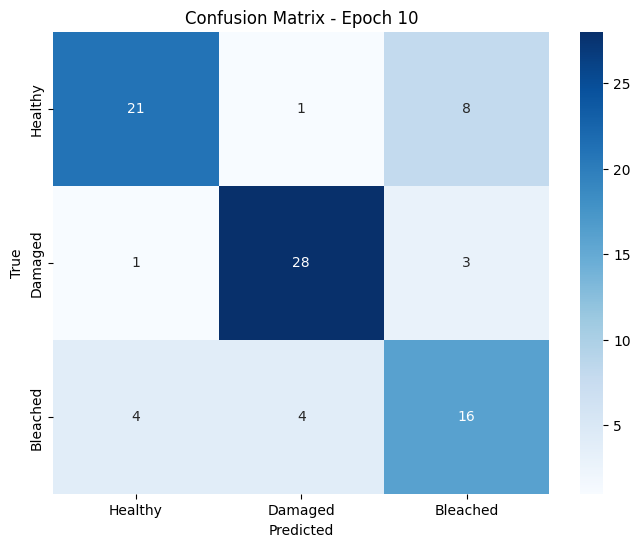
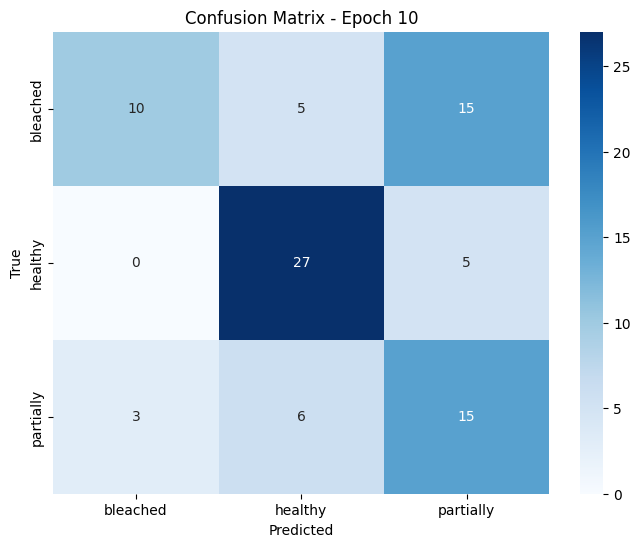
Update

diff --git a/index.html b/index.html
@@ -35,23 +35,23 @@
 
     <section id="introduction">
       <h2>Introduction</h2>
-      <p>Coral reefs are critical marine ecosystems that support biodiversity and act as natural coastal barriers. However, these ecosystems are under threat due to global warming, pollution, and human activities, leading to significant degradation. Monitoring coral health is essential for conservation and restoration efforts. Traditional monitoring techniques are time-consuming and labor-intensive, making automated solutions highly desirable. This project uses deep learning to classify coral health into three categories: Healthy, Damaged, and Bleached. A pre-trained ResNet50 model is fine-tuned for this task, leveraging transfer learning to maximize performance on limited data. Additionally, Gradient-weighted Class Activation Mapping (Grad-CAM) is employed to provide interpretability by highlighting the regions of the images most influential in the model’s decisions.</p>
+      <p>Coral reefs are essential to marine biodiversity, yet they are under increasing threat due to climate change, pollution, and human activities. Accurate monitoring of coral health is vital to conservation efforts, but manual methods can be labor-intensive and subjective. Deep learning offers a scalable and automated solution for coral classification, providing consistent and interpretable results. In this project, a pre-trained ResNet50 architecture was fine-tuned to classify coral health into three categories: bleached, healthy, and partially bleached. The model's performance was evaluated in two iterations—an initial baseline model and a second improved model. This report explores the technical reasoning behind key decisions, analyzes the results, and discusses the implications of this approach for coral reef conservation.</p>
     </section>
 
     <section id="data">
       <h2>Data</h2>
-      <p>The dataset, obtained from Roboflow, contains labeled images of corals across the three health categories. It is divided into training and validation sets to assess model performance. The images are preprocessed using transformations to improve generalization and robustness. For training, transformations include resizing to 224 \times 224, random horizontal flipping, color jittering, and normalization using ImageNet mean and standard deviation. Validation data undergoes resizing and normalization to ensure consistency during evaluation.</p>
+      <p>The dataset was acquired using the Roboflow API, containing images categorized into three health states: bleached, healthy, and partially bleached. An initial analysis of the class distribution revealed a significant imbalance, with the 'bleached' class overrepresented and the 'partially bleached' class underrepresented. This imbalance posed a clear challenge: models trained on such data are likely to perform poorly on underrepresented categories, as evidenced in the initial confusion matrix (Figure 3).</p>
       <figure class="image-caption">
-        <img src="images/class-distribution.png" alt="Distribution of classes in the dataset">
-        <figcaption>Distribution of classes in the dataset</figcaption>
+        <img src="images/class-distribution.png" alt="Training Class Distribution">
+        <figcaption>Figure 1. Distribution of classes in the dataset</figcaption>
       </figure>      
-      <p> The dataset exhibits class imbalance, with some coral health categories being underrepresented. To address this, augmentations such as brightness adjustments and random blurs were applied to the training data. A bar chart of class distribution visually confirmed the imbalance, emphasizing the need for these augmentations to ensure equitable learning across categories. The training set is further visualized to confirm the diversity and correctness of the data.</p>
+      <p> Figure 1. shows the distribution of training data across categories. The disparity in category frequencies explains the poor performance of the initial model on the 'partially bleached' class, as the model had fewer examples to learn distinguishing features for this category.</p>
       <figure class="image-caption">
-        <img src="images/coral-dataset.png" alt="Visualization of coral dataset">
-        <figcaption>Sample visualization of coral dataset.</figcaption>
+        <img src="images/coral-dataset.png" alt="Visualization of coral dataset sample">
+        <figcaption>Figure 2. Visualization of coral dataset sample</figcaption>
       </figure>
       <p>
-        The dataset was preprocessed using the following transformations to ensure compatibility with the ResNet50 model and improve generalization:
+        To prepare the images for the model, preprocessing steps included resizing all images to 224x224 pixels, which is the standard input size for ResNet50, followed by data augmentation techniques such as random horizontal flipping and color jittering. These augmentations aimed to improve the model's ability to generalize to new data by simulating variability in lighting and orientation. Finally, normalization was applied to align pixel intensity distributions with the ImageNet dataset on which ResNet50 was pre-trained.
       </p>
       <pre><code class="language-python">
         # Dataset Loading and Preprocessing
@@ -67,39 +67,60 @@
 
     <section id="modelling">
       <h2>Modelling</h2>
-      <p>This project utilizes the ResNet50 model, pre-trained on ImageNet, to benefit from transfer learning. The model’s final fully connected layer is replaced with a linear layer that outputs predictions for the three coral health classes. To prevent overfitting, a dropout layer with a 50% dropout rate is added before the fully connected layer.
-
-        The model is optimized using the AdamW optimizer, which incorporates weight decay to regularize the parameters. A cosine annealing scheduler dynamically adjusts the learning rate during training, facilitating smoother convergence. The loss function used is CrossEntropyLoss, appropriate for multi-class classification tasks.
-        
-        The training pipeline involves efficient batch processing using PyTorch DataLoaders. During each epoch, the model undergoes a forward pass to compute predictions, followed by loss calculation and backpropagation to update weights. The validation process evaluates model performance without updating parameters, calculating accuracy and tracking misclassifications. Grad-CAM is implemented during validation to interpret the model’s predictions by highlighting the image regions most influential in the decision-making process.</p>
+      <p>The baseline model used a pre-trained ResNet50 architecture, with its final fully connected layer replaced by a custom classifier tailored to the three coral health categories. The model was trained for 10 epochs using the Adam optimizer with an initial learning rate of 0.001. A StepLR scheduler reduced the learning rate by a factor of 0.1 after 5 epochs to facilitate convergence.</p>
+      <figure class="image-caption">
+        <img src="images/confusion-matrix-1.png" alt="Confusion Matrix - Initial Model">
+        <figcaption>Figure 3. Confusion Matrix - Initial Model</figcaption>
+      </figure> 
+      <p>While the training loss consistently decreased, indicating that the model was learning from the data, the validation loss plateaued early. This gap between training and validation performance suggested overfitting, where the model was overly reliant on the training data and unable to generalize effectively. The initial confusion matrix (Figure 2) confirms these shortcomings, with significant misclassifications in the 'partially bleached' category. The model frequently confused 'partially bleached' with 'bleached,' likely due to overlapping visual features such as pale or degraded coral tissue. In contrast, the 'healthy' category performed relatively well, as its vibrant colors and well-defined coral structures were easier for the model to distinguish.</p>    
+      <figure class="image-caption">
+        <img src="images/training-validation-loss-1.png" alt="Training and Validation Loss - Initial Model">
+        <figcaption>Figure 4. Training and Validation Loss - Initial Model</figcaption>
+      </figure> 
+      <p>To address the limitations of the baseline model, several refinements were introduced. A key enhancement was the incorporation of class weights into the loss function during fine-tuning. These weights, calculated as the inverse of class frequencies, prioritized learning from underrepresented categories such as 'partially bleached.' This adjustment directly addressed the imbalance in the dataset, ensuring the model did not disproportionately favor the dominant 'bleached' class.
+        Regularization techniques were also applied to improve generalization. A dropout layer with a rate of 50% was added to the fully connected layer, reducing the risk of overfitting by preventing the model from relying too heavily on specific neurons. Additionally, the optimizer was upgraded to AdamW, which incorporates weight decay to penalize large parameter values, further promoting generalization. The learning rate scheduler was replaced with OneCycleLR, which adjusts the learning rate dynamically throughout training, facilitating smoother convergence and reducing the risk of stagnation.</p>
+      <pre><code class="language-python">
+        # Adding Dropout Layer to Reduce Overfitting
+        # Replace the fully connected (fc) layer with a Sequential layer that includes Dropout
+        model.fc = nn.Sequential(
+          nn.Dropout(0.5),  # Dropout rate of 50% to randomly zero out neurons during training
+          nn.Linear(model.fc.in_features, num_classes)  # Fully connected layer for classification
+        )
+      </code></pre>
     </section>
 
     <section id="results">
       <h2>Results</h2>
-      <p>The initial performance of the model was evaluated to establish a baseline before implementing fine-tuning and hyperparameter optimization. This evaluation included an analysis of the confusion matrix, the training class distribution, and the training and validation loss curves over 10 epochs. These visualizations allowed me to assess the model’s ability to generalize and identify areas requiring improvement.</p>
-      <!-- Image -->
+      <p>These adjustments resulted in significant performance improvements, as evidenced by the updated confusion matrix (Figure 4). The model demonstrated better recall for the 'partially bleached' category, reducing confusion with 'bleached' and 'healthy.' This improvement underscores the effectiveness of weighted loss and fine-tuning techniques in addressing dataset imbalance.</p>
       <figure class="image-caption">
-        <img src="images/confusion-matrix-1.png" alt="Confusion matrix at epoch 10">
-        <figcaption>Confusion matrix at epoch 10</figcaption>
+        <img src="images/confusion-matrix-2.png" alt="Confusion matrix at epoch 10">
+        <figcaption>Figure 5. Confusion matrix at epoch 10</figcaption>
       </figure>
-      <p> The confusion matrix at epoch 10 showb provides detailed insights into the model’s classification performance across the three categories: Healthy, Damaged, and Bleached. The model performed well on the Damaged category, correctly classifying 28 samples with minimal errors. However, there were notable misclassifications in the Healthy and Bleached categories. Eight samples labeled as Healthy were misclassified as Bleached, and four Bleached samples were misclassified as either Healthy or Damaged. This pattern suggests the model struggled to distinguish between Healthy and Bleached corals, likely due to overlapping features in these categories or limitations in the dataset. Improving this aspect will be a key focus moving forward.
-      </p>
+      <p>The fine-tuned model exhibited smoother training and validation loss curves, as shown in Figure 6. Unlike the baseline model, the validation loss closely mirrored the training loss, indicating improved generalization. The integration of class weights ensured that the model paid more attention to underrepresented categories, leading to balanced performance across all classes.</p>
       <figure class="image-caption">
-        <img src="images/training-validation-loss.png" alt="Training and validation loss curves">
-        <figcaption>Training and validation loss curves</figcaption>
+        <img src="images/training-validation-loss-2.png" alt="Training and validation loss curves">
+        <figcaption>Figure 6. Training and validation loss curves</figcaption>
       </figure>
-      <p>The training and validation loss curves, depicted above, show the model’s learning progression over 10 epochs. The training loss decreased steadily throughout, indicating that the model was learning effectively from the training data. However, the validation loss initially dropped but began to plateau around epoch 4 and slightly increased toward epoch 9. This divergence between training and validation loss suggests the onset of overfitting, where the model performs well on the training set but struggles to generalize to unseen validation data. Addressing this issue will involve regularization techniques such as dropout or L2 regularization, as well as tuning the learning rate and other hyperparameters.
+      <p>The training and validation loss curves, depicted above, show the model’s learning progression over 10 epochs. The training loss decreased steadily throughout, indicating that the model was learning effectively from the training data. However, the validation loss initially dropped but began to plateau around epoch 4 and slightly increased toward epoch 9. This divergence between training and validation loss suggests the onset of overfitting, where the model performs well on the training set but struggles to generalize to unseen validation data.
       </p>
     </section>
 
     <section id="discussion">
-      <h2>Discussion</h2>
-      <p>From Figure X, one can see that... [interpretation of Figure X].</p>
+      <h2>Grad-CAM</h2>
+      <p>Grad-CAM (Gradient-weighted Class Activation Mapping) was employed to visualize the areas of the input images that influenced the model’s predictions. These heatmaps (Figure 6) provide insights into the decision-making process, revealing that the model consistently focused on coral regions rather than background noise. However, misclassifications highlighted by Grad-CAM suggest that mixed health states, where a coral exhibits features of both 'healthy' and 'partially bleached,' remain a challenge for the model.</p>
+      <figure class="image-caption">
+        <img src="images/Grad-CAM.png" alt="Grad-CAM Visualizations">
+        <figcaption>Figure 7. Grad-CAM Visualizationss</figcaption>
+      </figure>
     </section>
 
     <section id="conclusion">
       <h2>Conclusion</h2>
-      <p>Here is a brief summary. From this work, the following conclusions can be made:</p>
+      <p>This project demonstrates the potential of deep learning for automated coral health classification, addressing key challenges such as class imbalance and overfitting. The baseline model highlighted the limitations of training on imbalanced datasets, with poor performance on underrepresented categories such as 'partially bleached.' By incorporating class weights, dropout regularization, and advanced optimization techniques, the fine-tuned model achieved substantial improvements, as reflected in the confusion matrix and loss curves.
+
+        Grad-CAM visualizations provided valuable insights into the model's behavior, confirming that it learned to focus on relevant features while also identifying areas for further refinement. These findings underscore the importance of interpretability in deep learning, particularly for ecological applications where accuracy and transparency are critical.
+        
+        Future directions include expanding the dataset to cover a wider range of coral reef environments and integrating the model into a real-time monitoring system. Such advancements will enhance the ability of conservationists to monitor and protect these vital ecosystems.</p>
     </section>
   </main>
   <!-- Footer -->

diff --git a/styles.css b/styles.css
@@ -59,7 +59,7 @@ nav a {
 }
 
 nav a:hover {
-  color: #c9ced3;
+  color: #636363;
 }
 
 /* Main Content */
